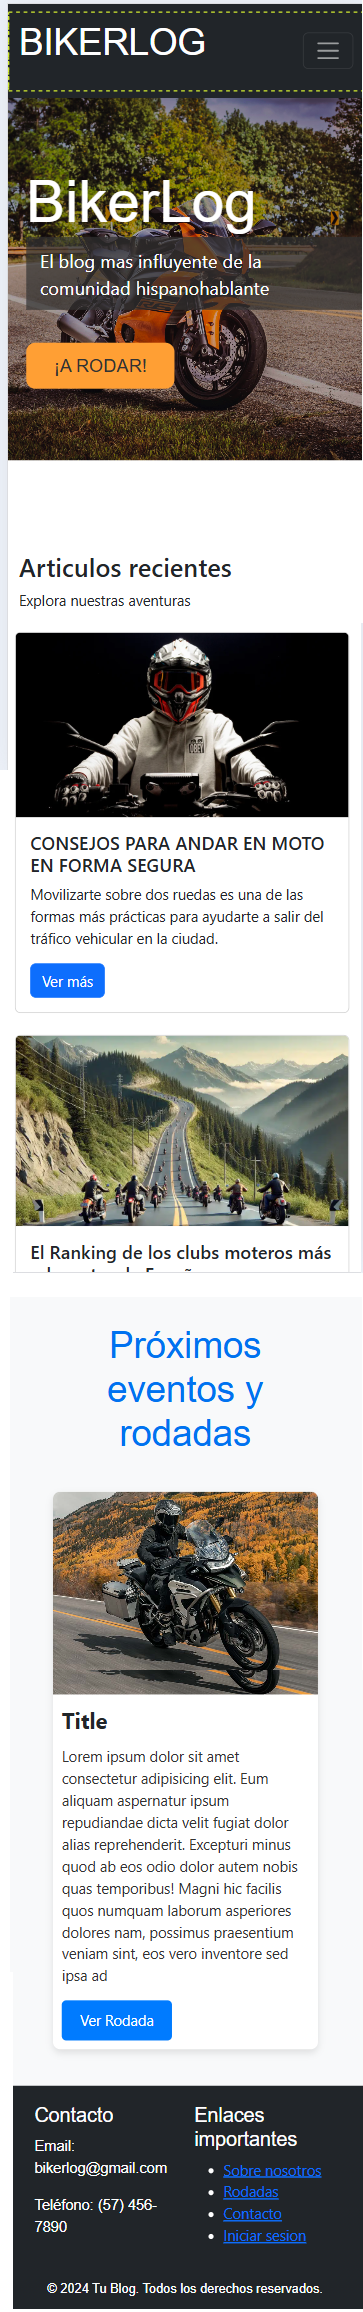
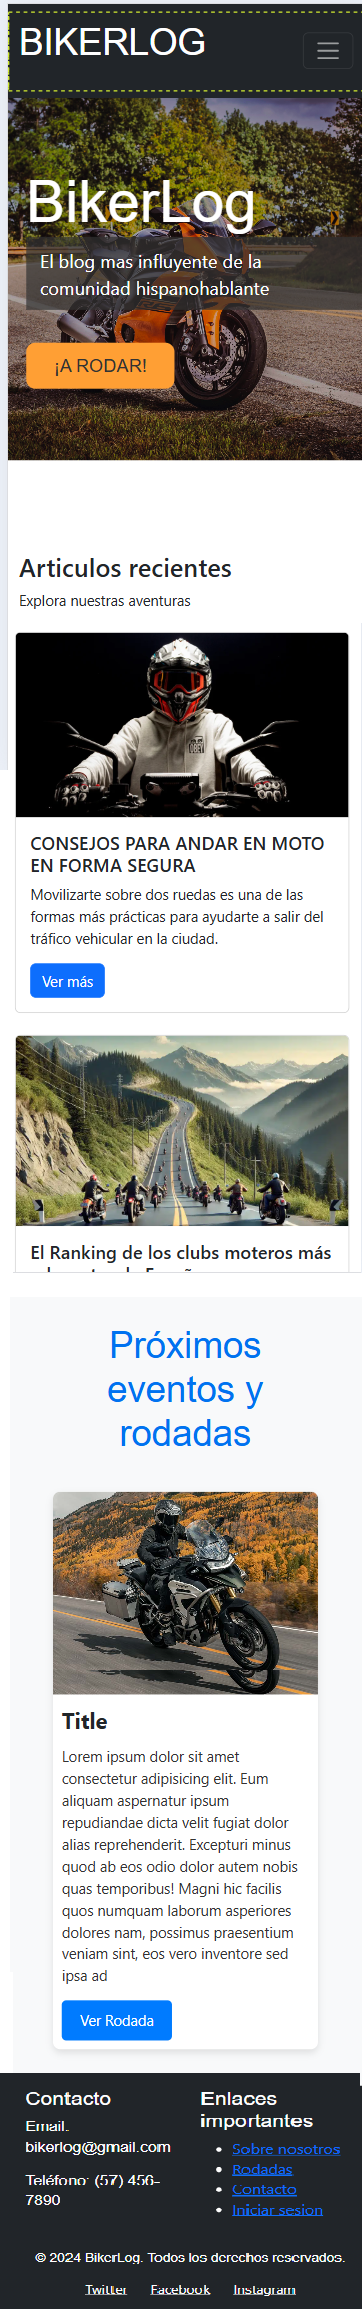
readme

diff --git a/index.html b/index.html
@@ -235,7 +235,7 @@
     </div>
 
     <div class="footer-bottom">
-        <p>&copy; 2024 Tu Blog. Todos los derechos reservados.</p>
+        <p>&copy; 2024 BikerLog. Todos los derechos reservados.</p>
         <div class="social-media">
             <a href="https://twitter.com" target="_blank">Twitter</a>
             <a href="https://facebook.com" target="_blank">Facebook</a>
